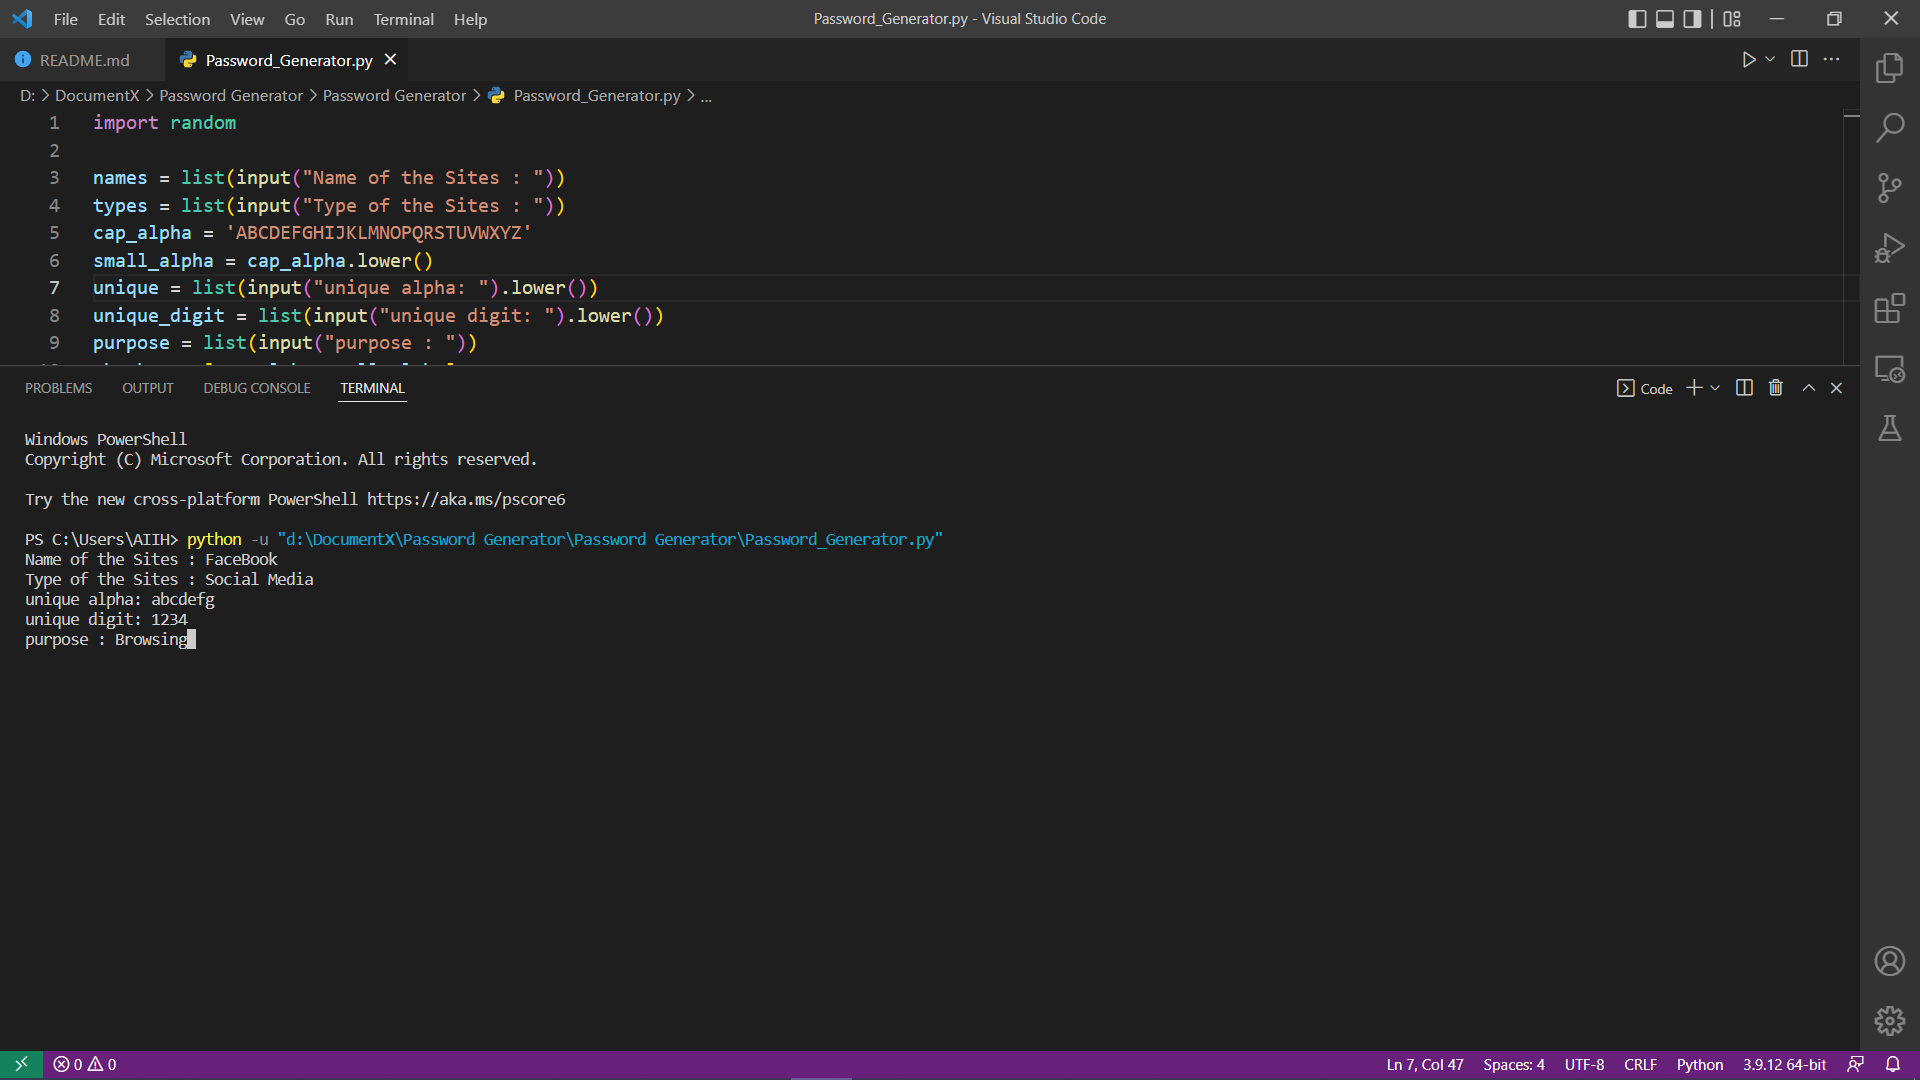
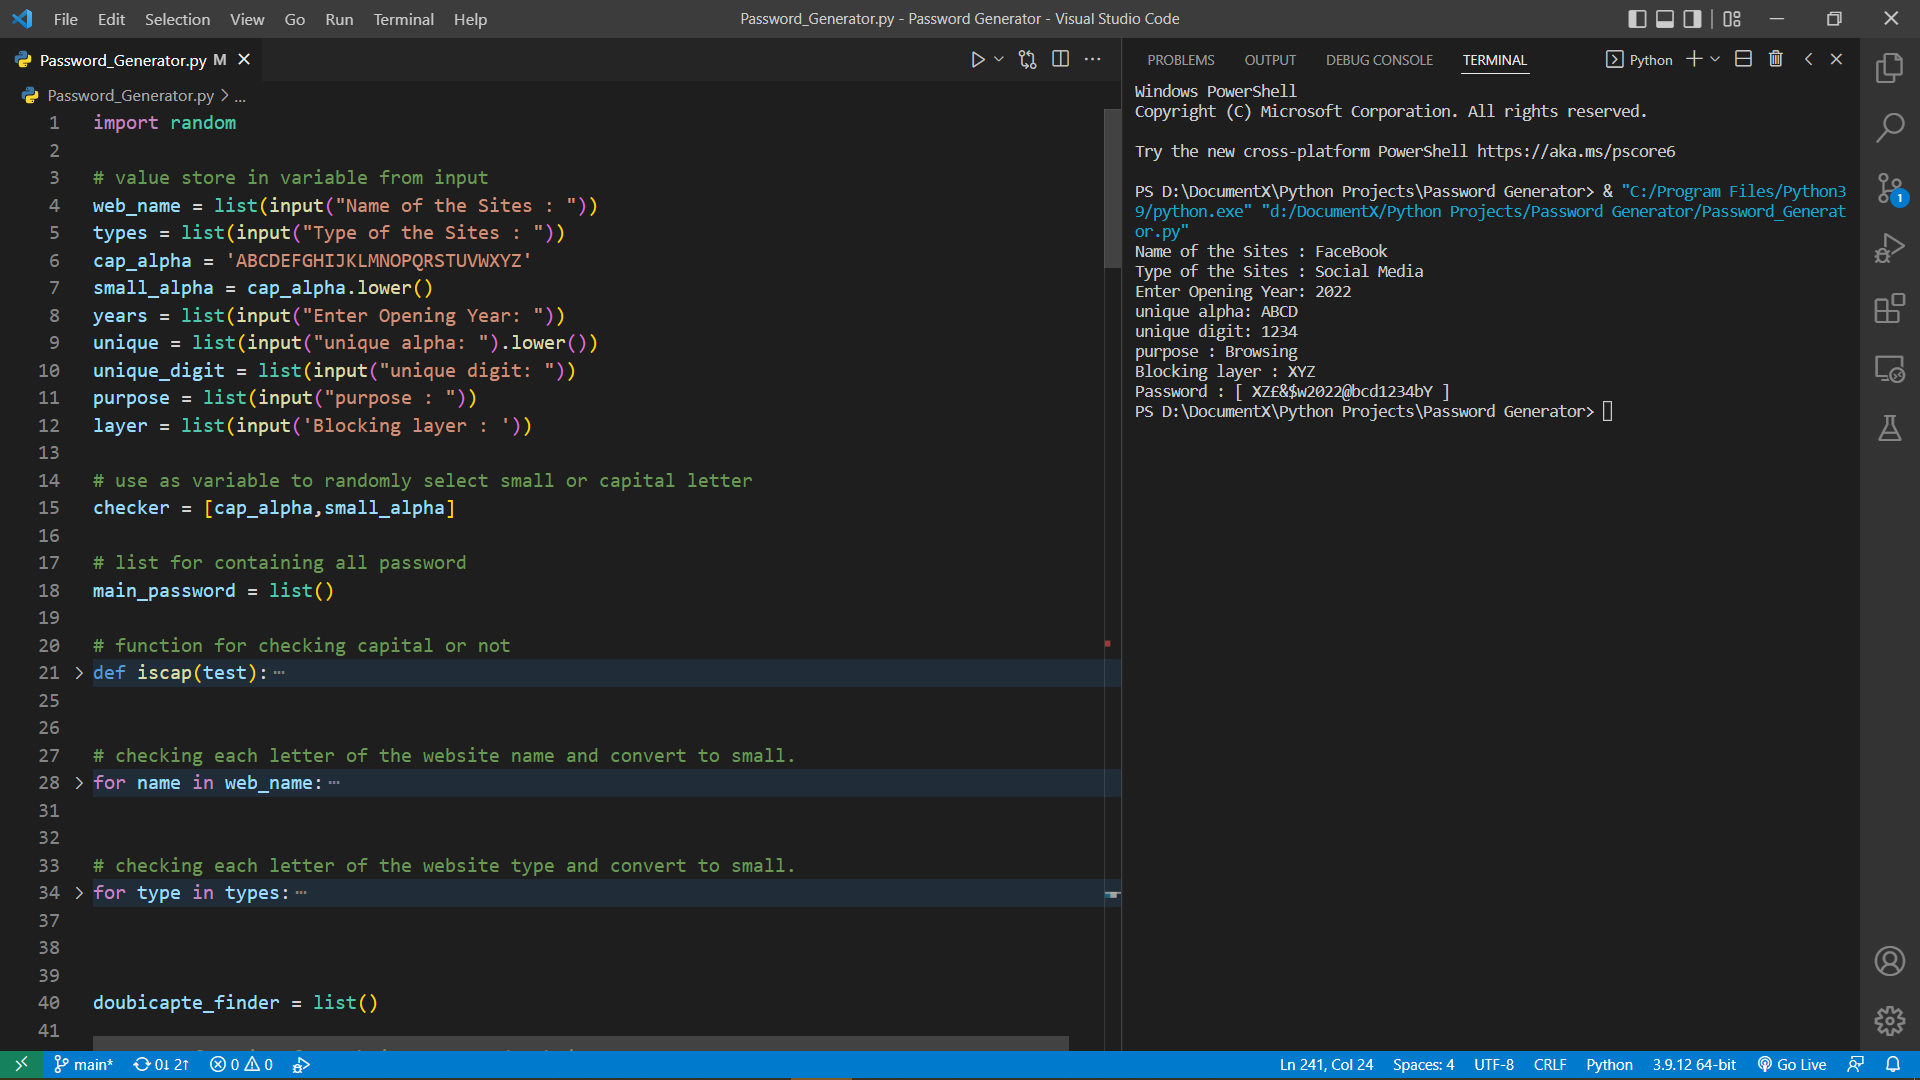
Password Generator are optimized and screenshot added

diff --git a/Password Generator/Password_Generator.py b/Password Generator/Password_Generator.py
@@ -181,7 +181,6 @@ def purpose_alpha():
 # calling purpose_alpha function
 purpose_alpha()
 
-print(doubicapte_finder)
 # deleting the doubicapte_finder list
 del doubicapte_finder
 
@@ -239,4 +238,4 @@ def block():
 block()
 
 # final password
-print(f'Password : [ {"".join(main_password)} ]')
+print(f'\nPassword : [ {"".join(main_password)} ]')
